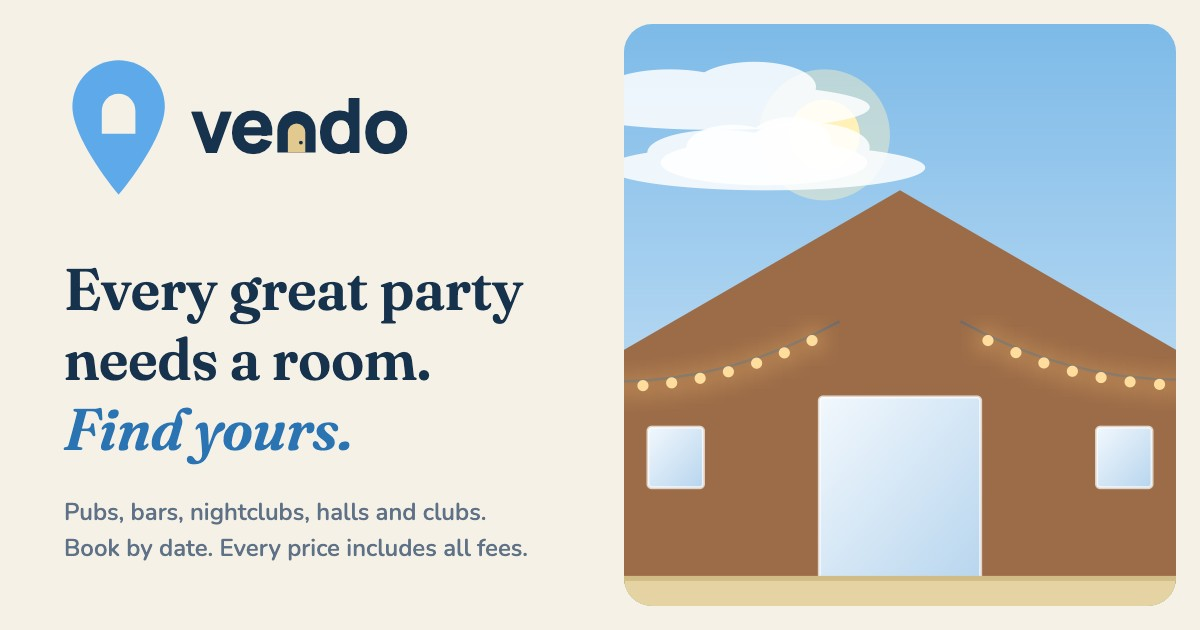
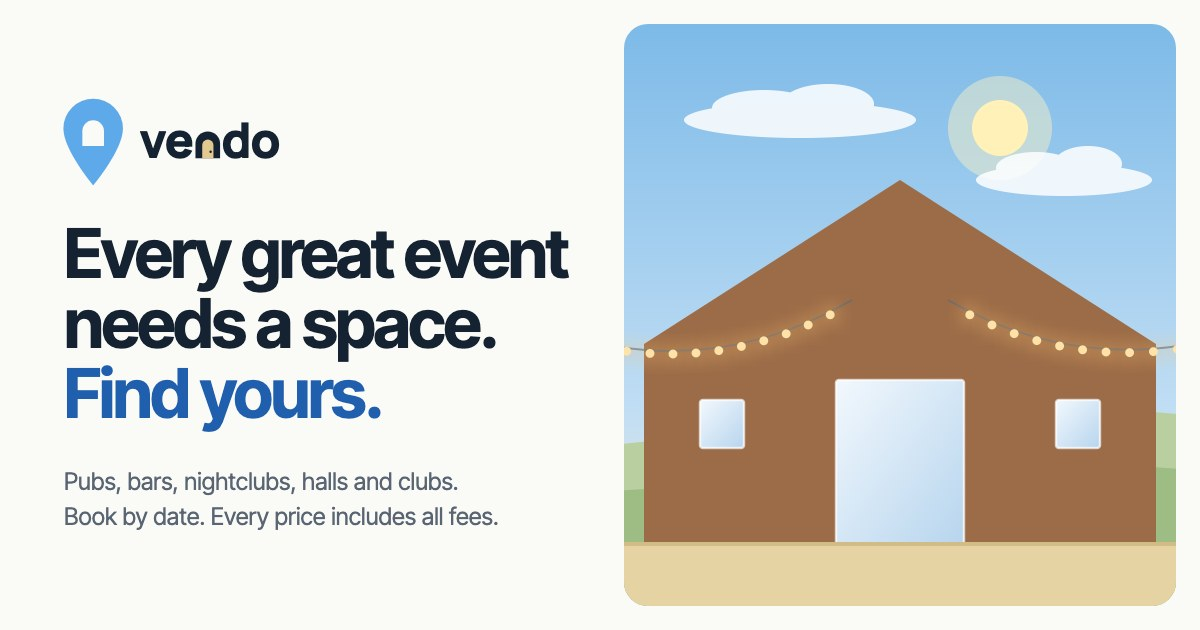
New link-preview image with the new slogan and look

diff --git a/index.html b/index.html
@@ -22,7 +22,7 @@
 <meta name="robots" content="index,follow">
 <meta property="og:image:width" content="1200">
 <meta property="og:image:height" content="630">
-<meta property="og:image:alt" content="The Vendo logo beside an illustrated barn with festoon lights, and the line: Every great party needs a room. Find yours.">
+<meta property="og:image:alt" content="The Vendo logo beside an illustrated barn with festoon lights, and the line: Every great event needs a space. Find yours.">
 <meta name="twitter:card" content="summary_large_image">
 <script type="application/ld+json">
 {
@@ -198,6 +198,17 @@ h1,h2,h3{font-family:var(--f-display);font-weight:650;text-wrap:balance;margin:0
 @media (max-width:640px){.demo-tag{display:none}.switch button{padding:7px 10px;font-size:13px}}
 
 /* Hero / search */
+/* Home page backdrop: a soft dotted texture and a street of venues along the bottom, drawn in the theme's own colours
+   so it follows light/dark mode and the event moods. Purely decorative. */
+.hero{position:relative;overflow:hidden;isolation:isolate;padding-bottom:58px;
+  background:radial-gradient(circle at 1px 1px,var(--line) 1.1px,transparent 1.6px) 0 0/20px 20px,linear-gradient(180deg,var(--accent-soft),var(--bg) 85%)}
+.hero::before{content:"";position:absolute;inset:0;z-index:-1;background:radial-gradient(ellipse 60% 70% at 85% 0%,var(--accent-soft),transparent 70%),linear-gradient(180deg,transparent 55%,var(--bg))}
+.hero-art{position:absolute;left:0;right:0;bottom:0;width:100%;height:150px;z-index:-1;pointer-events:none;opacity:.9}
+.hero-art .hb{fill:var(--sunk);stroke:var(--line);stroke-width:1.5}
+.hero-art .hw{fill:var(--brass);opacity:.35}
+.hero-art .hl{stroke:var(--line);stroke-width:1.5}
+.hero-art .hd{fill:var(--brass);opacity:.55}
+@media (max-width:640px){.hero{padding-bottom:40px}.hero-art{height:110px}}
 .intro{padding-block:40px 22px;display:grid;gap:22px}
 .intro h1{font-size:clamp(34px,5.2vw,58px);line-height:1.04;max-width:16ch}
 .intro h1 em{font-style:normal;color:var(--accent-text)}
@@ -1318,6 +1329,25 @@ function filtered(ignoreDate){
 }
 function renderFind(){
   app.innerHTML = `
+  <div class="hero"><svg class="hero-art" viewBox="0 0 1200 170" preserveAspectRatio="xMidYMax slice" aria-hidden="true" focusable="false">
+<path class="hl" d="M0 34 Q75 62 150 34 Q225 62 300 34 Q375 62 450 34 Q525 62 600 34 Q675 62 750 34 Q825 62 900 34 Q975 62 1050 34 Q1125 62 1200 34" fill="none"/>
+<g class="hd"><circle cx="37.5" cy="48.5" r="3.2"/><circle cx="75" cy="52.0" r="3.2"/><circle cx="112.5" cy="48.5" r="3.2"/><circle cx="187.5" cy="48.5" r="3.2"/><circle cx="225" cy="52.0" r="3.2"/><circle cx="262.5" cy="48.5" r="3.2"/><circle cx="337.5" cy="48.5" r="3.2"/><circle cx="375" cy="52.0" r="3.2"/><circle cx="412.5" cy="48.5" r="3.2"/><circle cx="487.5" cy="48.5" r="3.2"/><circle cx="525" cy="52.0" r="3.2"/><circle cx="562.5" cy="48.5" r="3.2"/><circle cx="637.5" cy="48.5" r="3.2"/><circle cx="675" cy="52.0" r="3.2"/><circle cx="712.5" cy="48.5" r="3.2"/><circle cx="787.5" cy="48.5" r="3.2"/><circle cx="825" cy="52.0" r="3.2"/><circle cx="862.5" cy="48.5" r="3.2"/><circle cx="937.5" cy="48.5" r="3.2"/><circle cx="975" cy="52.0" r="3.2"/><circle cx="1012.5" cy="48.5" r="3.2"/><circle cx="1087.5" cy="48.5" r="3.2"/><circle cx="1125" cy="52.0" r="3.2"/><circle cx="1162.5" cy="48.5" r="3.2"/></g>
+<g class="hb">
+<path d="M40 170V92l70-44 70 44v78Z"/><rect x="70" y="70" width="4" height="30"/><rect x="58" y="66" width="28" height="18" rx="2"/>
+<rect x="210" y="104" width="160" height="66"/><path d="M200 106l90-40 90 40Z"/>
+<rect x="400" y="58" width="110" height="112"/><rect x="420" y="40" width="70" height="20"/>
+<path d="M540 170V100l50-30 50 30v70Z"/><path d="M640 170V112h90v58Z"/><path d="M655 112l30-70 30 70Z"/>
+<rect x="760" y="96" width="210" height="74" rx="4"/><rect x="760" y="88" width="210" height="10" rx="5"/>
+<path d="M1000 170V90l60-36 60 36v80Z"/><rect x="1120" y="120" width="80" height="50"/>
+</g>
+<g class="hw">
+<rect x="60" y="112" width="20" height="16" rx="2"/><rect x="100" y="112" width="20" height="16" rx="2"/><rect x="140" y="112" width="20" height="16" rx="2"/>
+<rect x="232" y="122" width="16" height="24" rx="8"/><rect x="266" y="122" width="16" height="24" rx="8"/><rect x="300" y="122" width="16" height="24" rx="8"/><rect x="334" y="122" width="16" height="24" rx="8"/>
+<rect x="418" y="78" width="18" height="12"/><rect x="446" y="78" width="18" height="12"/><rect x="474" y="78" width="18" height="12"/><rect x="418" y="104" width="18" height="12"/><rect x="474" y="104" width="18" height="12"/><rect x="446" y="130" width="18" height="12"/>
+<rect x="578" y="110" width="24" height="30" rx="12"/><rect x="676" y="126" width="18" height="22" rx="9"/>
+<rect x="780" y="116" width="40" height="18" rx="3"/><rect x="835" y="116" width="40" height="18" rx="3"/><rect x="890" y="116" width="60" height="18" rx="3"/>
+<rect x="1030" y="104" width="22" height="18" rx="2"/><rect x="1068" y="104" width="22" height="18" rx="2"/><rect x="1138" y="134" width="44" height="14" rx="2"/>
+</g></svg>
   <section class="wrap intro">
     <div class="eyebrow">Pubs · Bars · Nightclubs · Village Halls · Clubs · Leisure Centres</div>
     <h1 id="headline"></h1>
@@ -1338,6 +1368,7 @@ function renderFind(){
     </div>
     <div class="mood-note" id="mood-note" hidden><i aria-hidden="true"></i><span></span></div>
   </section>
+  </div>
   <section class="wrap">
     <div id="area"></div>
     <div id="recent"></div>
@@ -2892,6 +2923,7 @@ const PAGES={
    To release: add an entry at the top of RELEASES, then run ./release.sh <version>.
    Bump the last number for fixes, the middle number for new features. */
 const RELEASES=[
+ {v:"0.22.3",d:"2026-11-17",t:"New link preview",n:["The picture shown when someone shares a Vendo link now has the new slogan and the new look."]},
  {v:"0.22.2",d:"2026-11-17",t:"New slogan",n:["The home page now reads: Every great event needs a space. Find yours.","The line of text under it is gone, so the search box sits higher up."]},
  {v:"0.22.1",d:"2026-11-17",t:"Filters under events",n:["On the home page, Filters now sits underneath Event, and each opens on its own row."]},
  {v:"0.22.0",d:"2026-11-17",t:"Great venues in your area",n:["A new row on the home page shows top-rated venues near you. Choose a town, or use your location.","The town you pick is remembered on your device. If you've already let Vendo use your location, it's used without asking again.","Until you choose, it shows the top-rated venues on Vendo."]},
